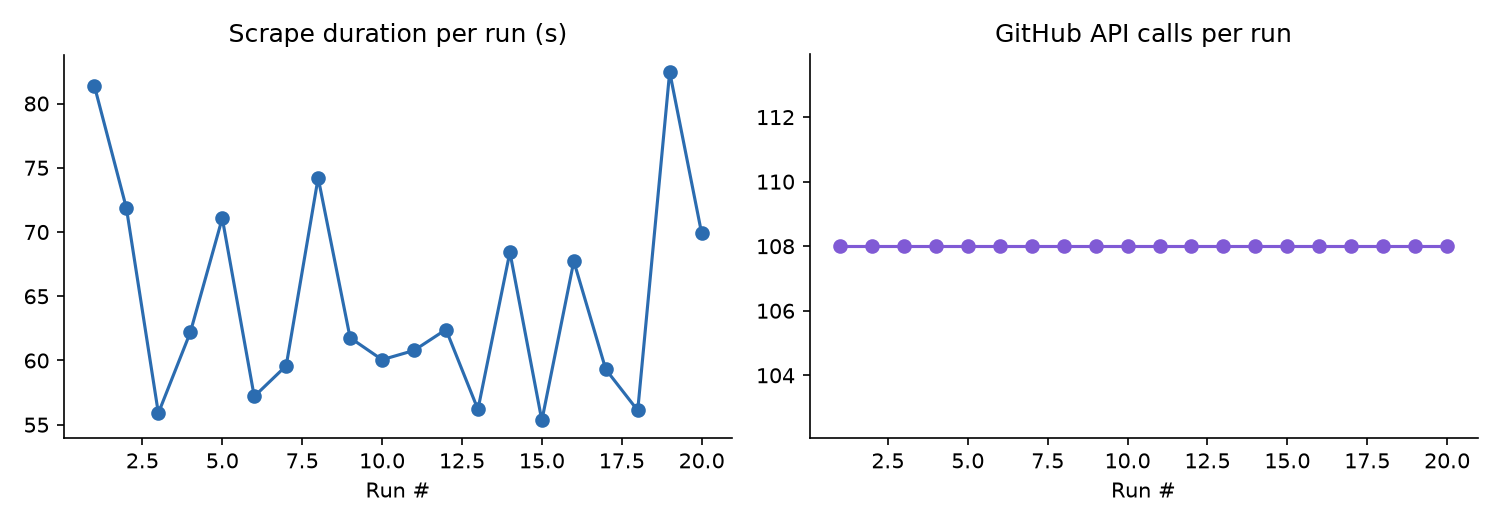
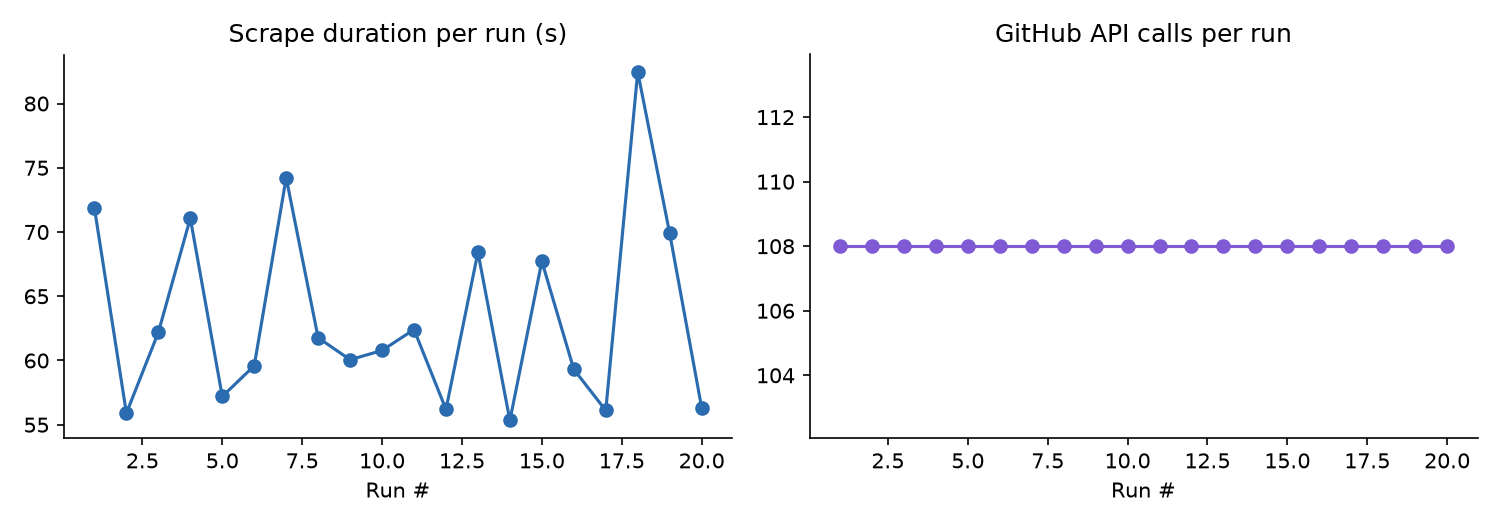
Weekly issue tracker refresh

diff --git a/README.md b/README.md
@@ -81,7 +81,7 @@ See [CONTRIBUTING.md](CONTRIBUTING.md) for the full contributor workflow — inc
 
 <!-- TRACKER:START -->
 
-_Last updated: 2026-07-31 21:44 UTC_
+_Last updated: 2026-07-31 22:12 UTC_
 
 _Tracking **18** upstream repos, **388** relevant open issues._
 
@@ -295,7 +295,7 @@ _Tracking **18** upstream repos, **388** relevant open issues._
 
 <!-- METRICS:START -->
 
-_Last run: 2026-07-31 21:43 UTC, took **69.9s**, **108** GitHub API calls, **4893/5000** rate limit remaining._
+_Last run: 2026-07-31 22:11 UTC, took **56.3s**, **108** GitHub API calls, **4786/5000** rate limit remaining._
 
 ![Scrape metrics trend](assets/metrics_trend.png)
 
